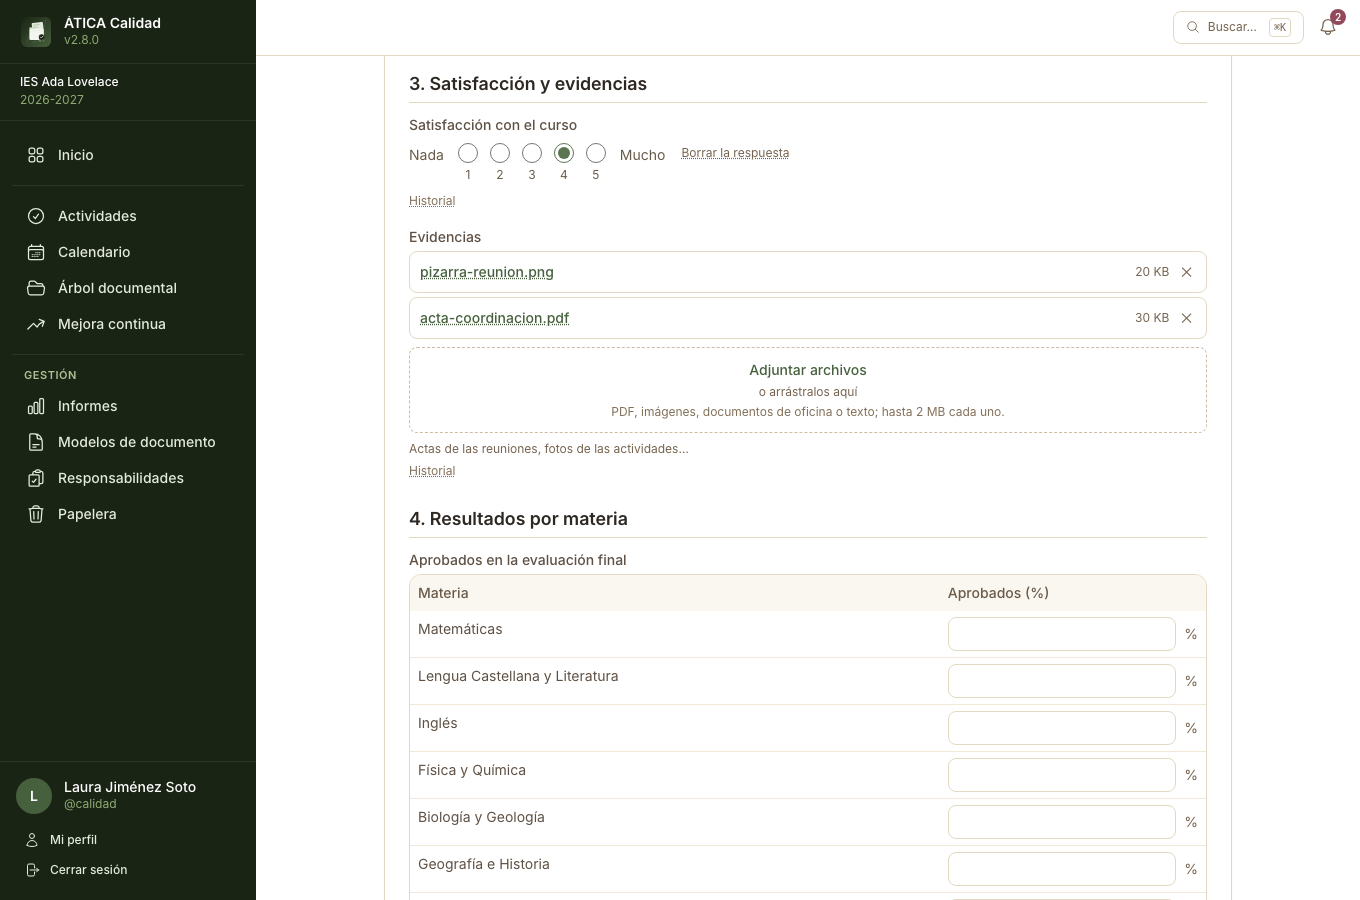
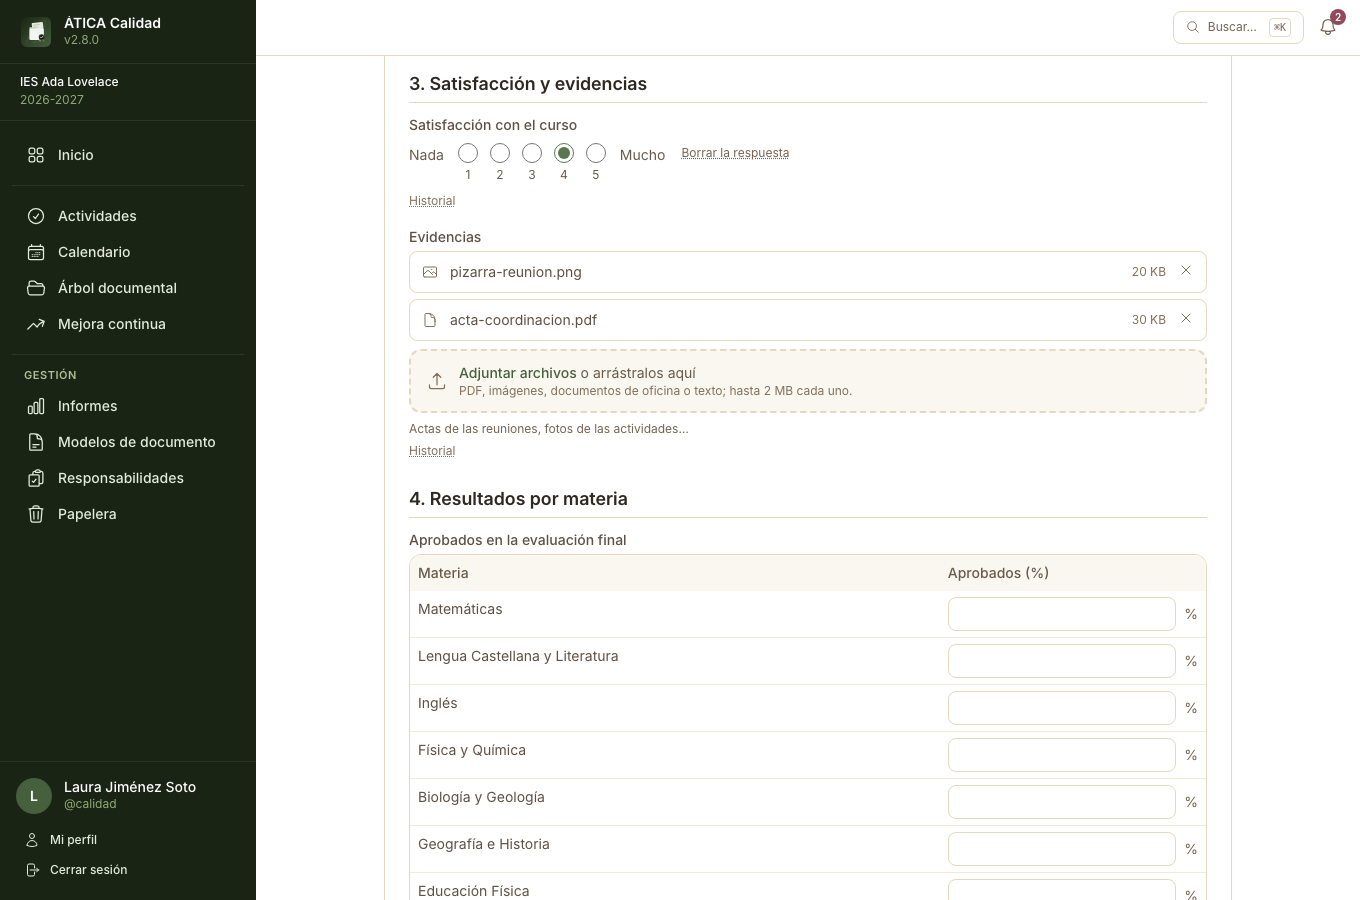
fix(forms): el recuadro de adjuntos tiene el icono y el aspecto de los demás recuadros de subida

diff --git a/assets/controllers/form_fill_controller.js b/assets/controllers/form_fill_controller.js
@@ -12,6 +12,23 @@ const SELECT = INPUT;
 const INVALID = ['border-red-400', 'bg-red-50', 'focus:border-red-500', 'focus:ring-red-500'];
 const BTN ='rounded-lg border border-gray-200 bg-white px-3 py-1.5 text-xs font-medium text-gray-700 hover:bg-gray-50 focus:outline-none focus:ring-2 focus:ring-forest-500 disabled:opacity-50';
 
+// The Heroicons the page draws by itself (the same files as assets/icons/heroicons, which Twig's ux_icon() reads: a script cannot).
+const ICON_PATHS = {
+    'arrow-up-tray': 'M3 16.5v2.25A2.25 2.25 0 0 0 5.25 21h13.5A2.25 2.25 0 0 0 21 18.75V16.5m-13.5-9L12 3m0 0l4.5 4.5M12 3v13.5',
+    document: 'M19.5 14.25v-2.625a3.375 3.375 0 0 0-3.375-3.375h-1.5A1.125 1.125 0 0 1 13.5 7.125v-1.5a3.375 3.375 0 0 0-3.375-3.375H8.25m2.25 0H5.625c-.621 0-1.125.504-1.125 1.125v17.25c0 .621.504 1.125 1.125 1.125h12.75c.621 0 1.125-.504 1.125-1.125V11.25a9 9 0 0 0-9-9',
+    photo: 'm2.25 15.75l5.159-5.159a2.25 2.25 0 0 1 3.182 0l5.159 5.159m-1.5-1.5l1.409-1.409a2.25 2.25 0 0 1 3.182 0l2.909 2.909m-18 3.75h16.5a1.5 1.5 0 0 0 1.5-1.5V6a1.5 1.5 0 0 0-1.5-1.5H3.75A1.5 1.5 0 0 0 2.25 6v12a1.5 1.5 0 0 0 1.5 1.5m10.5-11.25h.008v.008h-.008zm.375 0a.375.375 0 1 1-.75 0a.375.375 0 0 1 .75 0',
+    'x-mark': 'M6 18L18 6M6 6l12 12',
+};
+
+/** A Heroicon as an inline SVG (decorative: the control around it says what it is). */
+function icon(name, cls) {
+    const span = document.createElement('span');
+    span.className = 'inline-flex shrink-0';
+    span.setAttribute('aria-hidden', 'true');
+    span.innerHTML = `<svg xmlns="http://www.w3.org/2000/svg" viewBox="0 0 24 24" class="${cls}"><path fill="none" stroke="currentColor" stroke-linecap="round" stroke-linejoin="round" stroke-width="1.5" d="${ICON_PATHS[name]}"/></svg>`;
+    return span;
+}
+
 /**
  * Filling in a document online. It draws the form from the model's definition and the data typed so far (App\Service\Form),
  * following the rules of repeating sections, conditions and references (assets/utils/form_scopes.js), and saves the data as it
@@ -860,28 +877,34 @@ export default class extends Controller {
         let files = Array.isArray(value) ? [...value] : [];
         const urlOf = (file) => (config.fileUrl || '').replace('__ID__', encodeURIComponent(file.id));
         const size = (bytes) => (bytes < 1024 ? bytes + ' B' : bytes < 1048576 ? Math.max(1, Math.round(bytes / 1024)) + ' KB' : (Math.round(bytes / 104857.6) / 10).toString().replace('.', ',') + ' MB');
-        const list = h('ul', { class: 'space-y-1' });
+        const list = h('ul', { class: 'space-y-1.5' });
         const status = h('p', { class: 'text-xs text-gray-500', 'aria-live': 'polite' });
         const input = h('input', { type: 'file', multiple: true, class: 'sr-only', id: id ? id + '-files' : null, disabled: this.readOnly });
+        // The same box as the other uploads of the application (Form:PdfDropzone): dashed, the upload icon at the left.
         const box = h('label', {
             for: input.id || null,
-            class: 'flex cursor-pointer flex-col items-center gap-1 rounded-lg border border-dashed border-gray-300 px-3 py-3 text-center text-sm text-gray-600 hover:bg-gray-50 focus-within:ring-2 focus-within:ring-forest-500',
+            class: 'flex cursor-pointer items-center gap-3 rounded-xl border-2 border-dashed border-gray-200 bg-gray-50 px-4 py-3 transition-colors hover:border-forest-300 hover:bg-forest-50/50 focus-within:ring-2 focus-within:ring-forest-500',
         }, [
             input,
-            h('span', { class: 'font-medium text-forest-700', text: this.l.attachment_add }),
-            h('span', { class: 'text-xs text-gray-500', text: this.l.attachment_drop }),
-            h('span', { class: 'text-xs text-gray-400', text: this.l.attachment_hint.replace('%max%', size(config.fileMaxBytes || 10485760)) }),
+            icon('arrow-up-tray', 'h-5 w-5 shrink-0 text-gray-400'),
+            h('span', { class: 'min-w-0' }, [
+                h('span', { class: 'block text-sm text-gray-600' }, [
+                    h('span', { class: 'font-medium text-forest-700', text: this.l.attachment_add }), ' ' + this.l.attachment_drop,
+                ]),
+                h('span', { class: 'block text-xs text-gray-400', text: this.l.attachment_hint.replace('%max%', size(config.fileMaxBytes || 10485760)) }),
+            ]),
         ]);
 
         const draw = () => {
-            list.replaceChildren(...files.map((file) => h('li', { class: 'flex items-center gap-2 rounded-lg border border-gray-200 px-2.5 py-1.5 text-sm' }, [
-                h('a', { href: urlOf(file), class: 'min-w-0 flex-1 truncate font-medium text-forest-700 underline decoration-dotted', text: file.name }),
-                h('span', { class: 'shrink-0 text-xs text-gray-500', text: size(file.size || 0) }),
+            list.replaceChildren(...files.map((file) => h('li', { class: 'flex items-center gap-3 rounded-lg border border-gray-200 bg-white px-3 py-2' }, [
+                icon((file.mime || '').startsWith('image/') ? 'photo' : 'document', 'h-4 w-4 shrink-0 text-gray-400'),
+                h('a', { href: urlOf(file), class: 'min-w-0 flex-1 truncate text-sm text-gray-700 hover:text-forest-700 hover:underline', text: file.name }),
+                h('span', { class: 'shrink-0 text-xs text-gray-400', text: size(file.size || 0) }),
                 this.readOnly ? null : h('button', {
-                    type: 'button', class: 'shrink-0 rounded p-1 text-gray-500 hover:bg-gray-100 hover:text-red-700',
-                    'aria-label': this.l.attachment_remove.replace('%name%', file.name), text: '✕',
+                    type: 'button', class: 'shrink-0 text-gray-400 transition-colors hover:text-red-600',
+                    'aria-label': this.l.attachment_remove.replace('%name%', file.name),
                     onclick: () => { files = files.filter((f) => f.id !== file.id); draw(); onChange(files.length ? [...files] : null); },
-                }),
+                }, [icon('x-mark', 'h-4 w-4')]),
             ])));
             box.hidden = this.readOnly || files.length >= max;
             if (!this.readOnly && files.length >= max) {
@@ -921,9 +944,11 @@ export default class extends Controller {
         };
 
         input.addEventListener('change', () => { upload([...input.files]); input.value = ''; });
-        box.addEventListener('dragover', (e) => { e.preventDefault(); box.classList.add('bg-forest-50'); });
-        box.addEventListener('dragleave', () => box.classList.remove('bg-forest-50'));
-        box.addEventListener('drop', (e) => { e.preventDefault(); box.classList.remove('bg-forest-50'); upload([...(e.dataTransfer?.files || [])]); });
+        // While a file is dragged over it, the box lights up like the other dropzones.
+        const over = ['border-forest-400', 'bg-forest-50'];
+        box.addEventListener('dragover', (e) => { e.preventDefault(); box.classList.add(...over); });
+        box.addEventListener('dragleave', () => box.classList.remove(...over));
+        box.addEventListener('drop', (e) => { e.preventDefault(); box.classList.remove(...over); upload([...(e.dataTransfer?.files || [])]); });
         draw();
 
         return h('div', { id, class: 'space-y-2' }, [list, box, status]);
